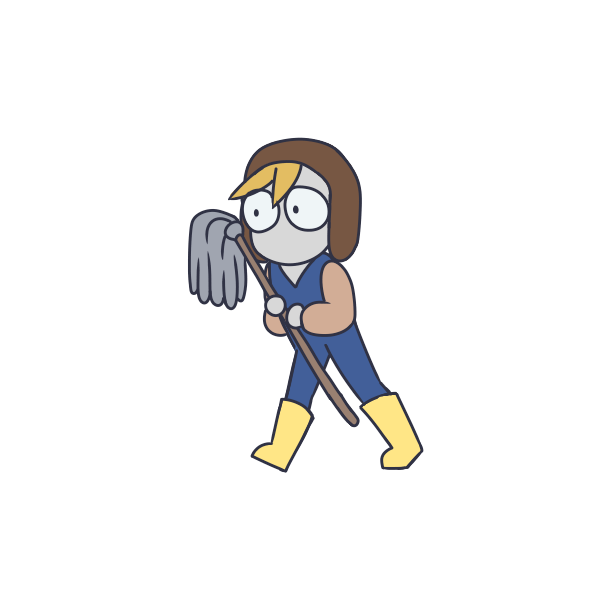
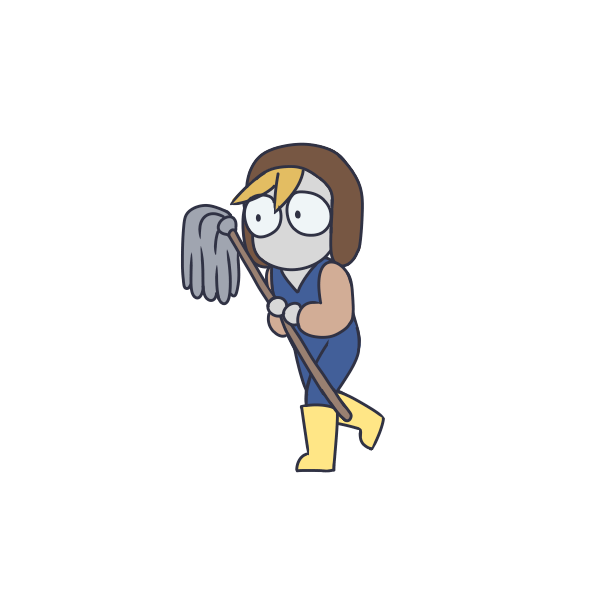
Garrett Worked More on Animation

Changed region(s): [[0.3, 0.21, 0.72, 0.81], [0.57, 0.27, 0.6, 0.3]]

diff --git a/application.py b/application.py
@@ -65,11 +65,13 @@ class PlayerCharacter(arcade.Sprite):
         
         '''Used for fliping the texture'''
         self.cur_texture = 0
+        self.cur_fight_texture = 0
 
         '''State tracking'''
         self.jumping = False
         self.climbing = False
         self.is_on_ladder = False
+        self.is_fighting = False
     
         '''Hitbox'''
         self.points = [[-22, -64], [22, -64], [22, 28], [-22, 28]]
@@ -82,18 +84,23 @@ class PlayerCharacter(arcade.Sprite):
         self.idle_texture_pair = load_texture_pair(f"{main_path}/Sir Something Model.png")
         
         '''Jumping'''
-        self.jump_texture_pair = load_texture_pair(f"{main_path}/Main Character Frames/000.png")
+        self.jump_texture_pair = load_texture_pair(f"{main_path}/Sir Something Jump Model.png")
         
         '''Falling'''
-        self.fall_texture_pair = load_texture_pair(f"{main_path}/Main Character Frames/000.png")
+        self.fall_texture_pair = load_texture_pair(f"{main_path}/Sir Something Jump Model.png")
 
         '''Loading Walking Animation'''
         self.walk_textures = []
-        for i in range(6):
+        for i in range(12):
             texture = load_texture_pair(f"{main_path}/Main Character Frames/00{i}.png")
             self.walk_textures.append(texture)
         
-    def update_animation(self, delta_time: float = 1):
+        '''Loading attack Animation''' 
+        self.attack_textures = []
+        for i in range(2):
+            texture = load_texture_pair(f"{main_path}/Sir Something Attack {i}.png")
+
+    def update_animation(self, delta_time: float = 1/60):
 
         '''Figure out if we need to flip face left or right'''
         if self.change_x < 0 and self.character_face_direction == RIGHT_FACING:
@@ -129,11 +136,16 @@ class PlayerCharacter(arcade.Sprite):
 
         '''Walking animation'''
         self.cur_texture += 1
-        if self.cur_texture > 5:
+        if self.cur_texture > 11:
             self.cur_texture = 0
         self.texture = self.walk_textures[self.cur_texture][self.character_face_direction]
-
-
+        
+        '''Fighting Texture'''
+        if self.is_fighting:
+            if self.cur_fight_texture > 1:
+                self.cur_fight_texture = 0
+            self.cur_fight_texture += 1
+            self.texture = self.attack_textures[self.cur_fight_texture][self.character_face_direction]
 
 class BusinessCasual(arcade.Window):
     
@@ -158,7 +170,9 @@ class BusinessCasual(arcade.Window):
         self.jump_needs_reset = False
 
         '''Item, Character, and Wall lists'''
-        self.item_list = None
+        self.money_list = None
+        self.potion_list = None
+        self.coffee_list = None
         self.wall_list = None
         self.background_list = None
         self.foreground_list = None
@@ -191,7 +205,9 @@ class BusinessCasual(arcade.Window):
         self.player_list = arcade.SpriteList()
         self.background_list = arcade.SpriteList()
         self.foreground_list = arcade.SpriteList()
-        self.item_list = arcade.SpriteList()
+        self.money_list = arcade.SpriteList()
+        self.coffee_list = arcade.SpriteList()
+        self.potion_list = arcade.SpriteList()
         self.traps_list = arcade.SpriteList()
         self.wall_list = arcade.SpriteList()
 
@@ -213,8 +229,14 @@ class BusinessCasual(arcade.Window):
 
         background_layer_name = "background"
 
-        items_layer_name = "items"
+        money_layer_name = "money"
         
+        potion_layer_name = "potions"
+
+        coffee_layer_name = "coffee"
+
+
+
         traps_layer_name = "traps"
         
         '''Loads Map'''
@@ -231,8 +253,14 @@ class BusinessCasual(arcade.Window):
         '''Platforms'''
         self.wall_list = arcade.tilemap.process_layer(my_map, platforms_layer_name, TILE_SCALING)
 
-        '''Items'''
-        self.items_list = arcade.tilemap.process_layer(my_map, items_layer_name, TILE_SCALING)
+        '''money'''
+        self.money_list = arcade.tilemap.process_layer(my_map, money_layer_name, TILE_SCALING)
+        
+        '''coffee'''
+        self.coffee_list = arcade.tilemap.process_layer(my_map, coffee_layer_name, TILE_SCALING)
+        
+        '''Potions'''
+        self.potion_list = arcade.tilemap.process_layer(my_map, potion_layer_name, TILE_SCALING)
 
         '''Traps'''
         self.traps_list = arcade.tilemap.process_layer(my_map, traps_layer_name, TILE_SCALING)
@@ -254,7 +282,9 @@ class BusinessCasual(arcade.Window):
         self.player_list.draw() 
         self.wall_list.draw()
         self.wall_list.draw()
-        self.items_list.draw()
+        self.money_list.draw()
+        self.coffee_list.draw()
+        self.potion_list.draw()
         self.traps_list.draw()
         self.foreground_list.draw()
         self.background_list.draw()
@@ -308,6 +338,8 @@ class BusinessCasual(arcade.Window):
             self.left_pressed = True 
         elif key == arcade.key.RIGHT or key == arcade.key.D:
             self.right_pressed = True
+        if key == arcade.key.SPACE:
+            self.player_sprite.is_fighting = True
 
         self.process_keychange()
     
@@ -324,6 +356,8 @@ class BusinessCasual(arcade.Window):
             self.left_pressed = False
         elif key == arcade.key.RIGHT or key == arcade.key.D:
             self.right_pressed = False
+        if key == arcade.key.SPACE:
+            self.player_sprite.is_fighting = False
 
         self.process_keychange()
 
